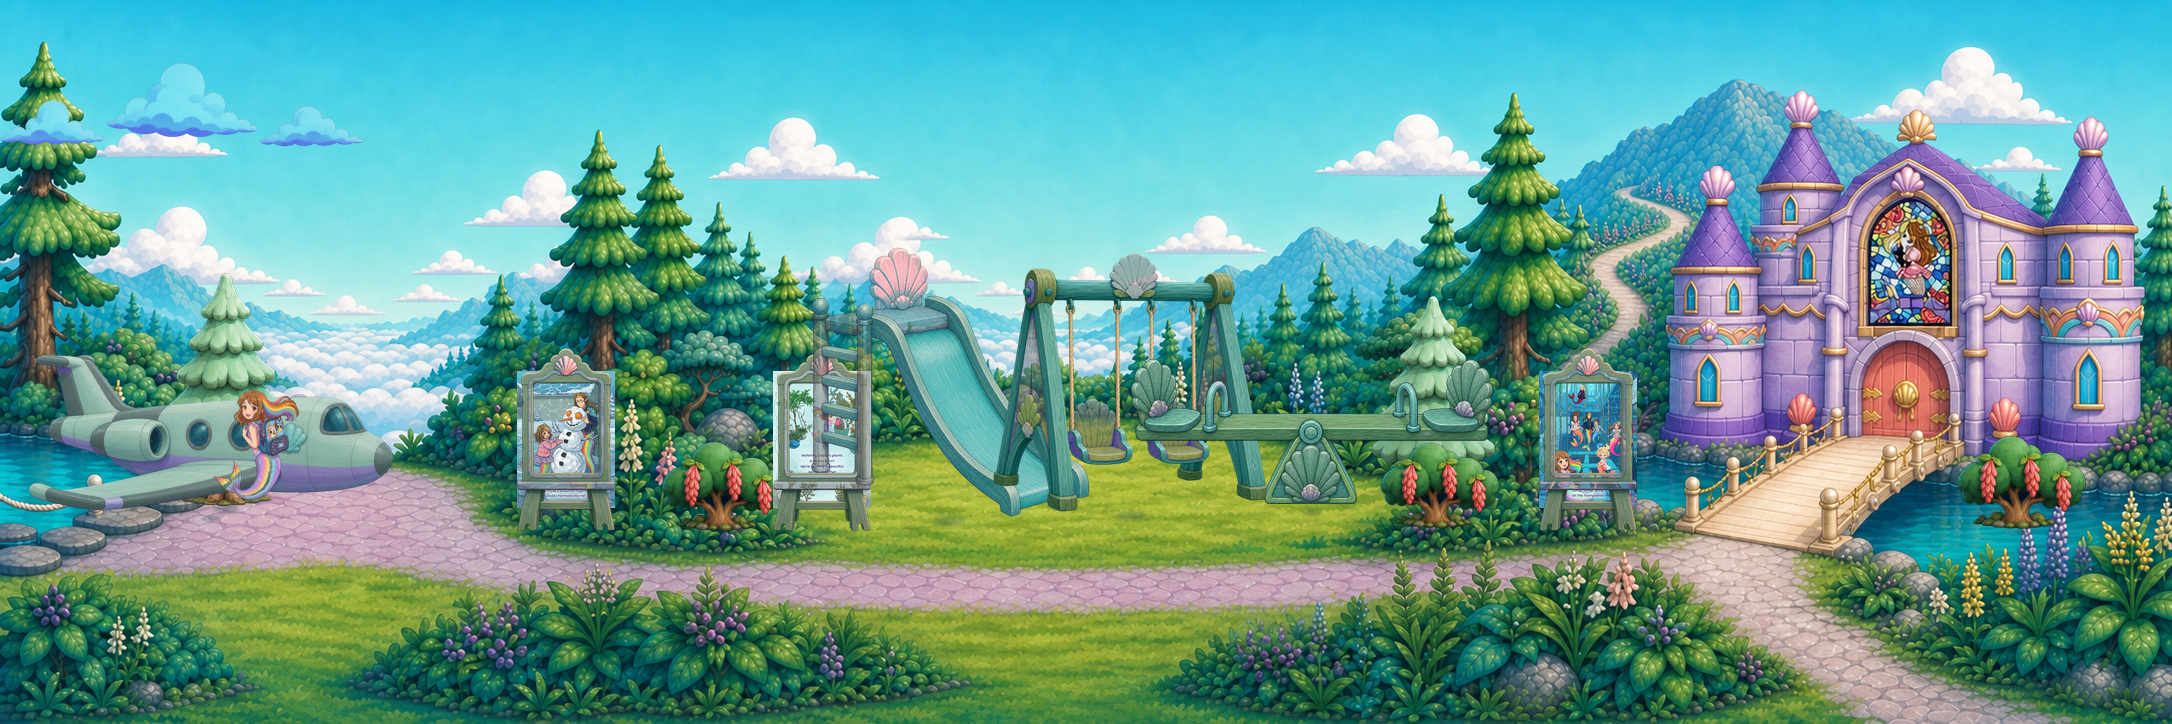
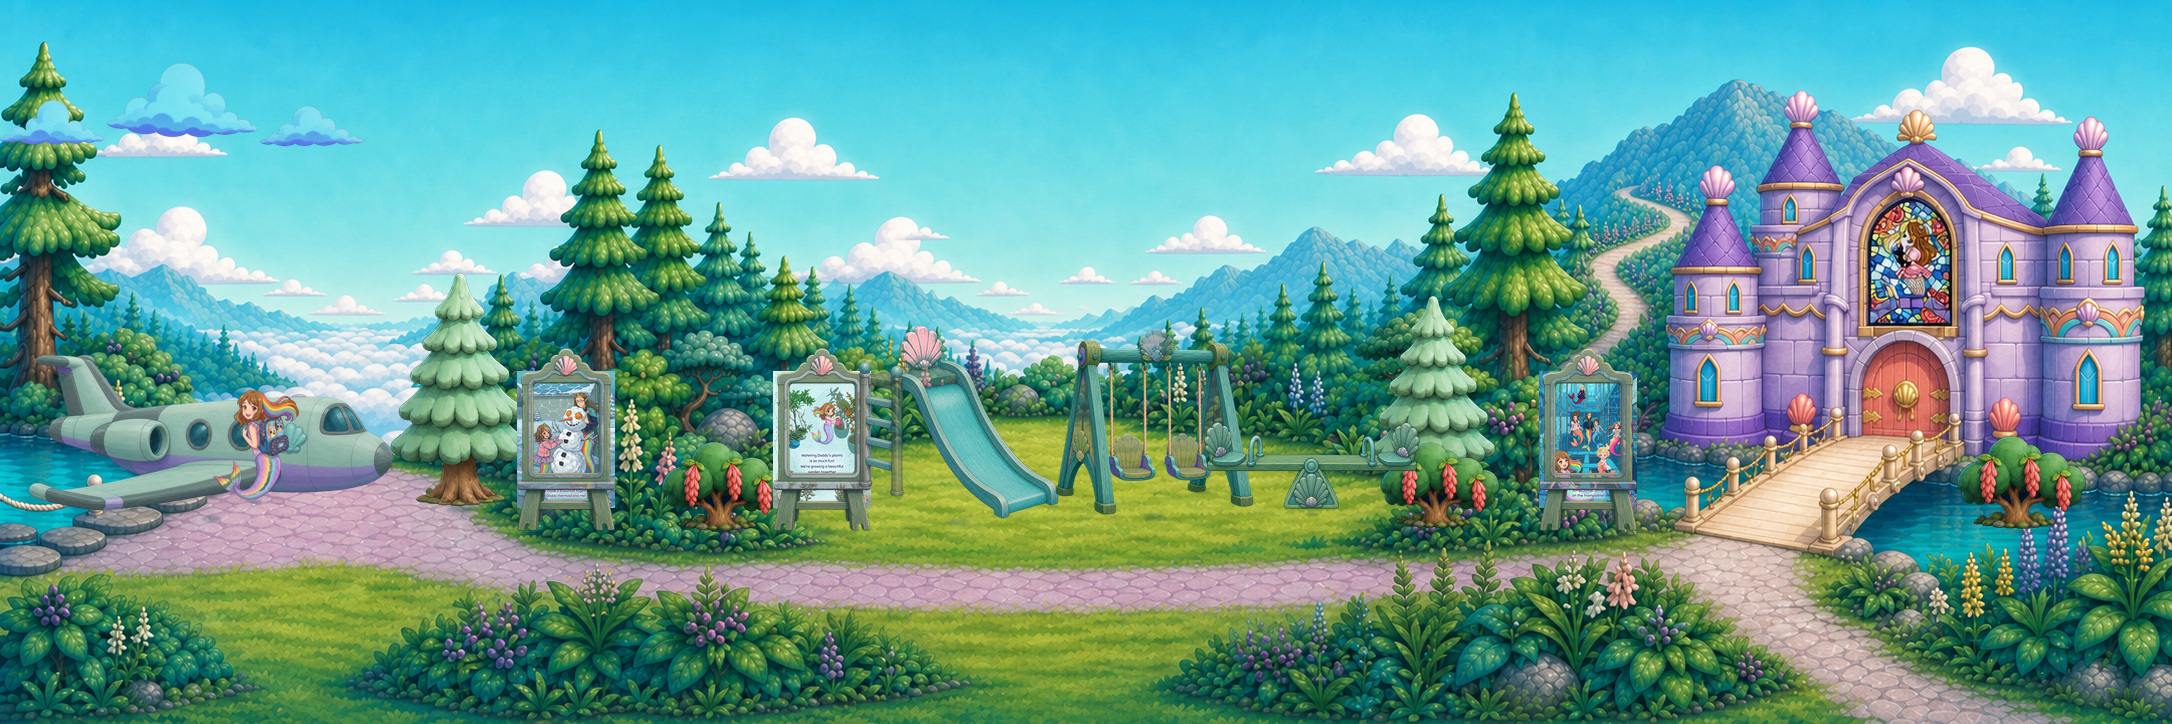
fix(sky-lagoon): fit playground and root shoreline fir

diff --git a/tools/audit_scene_congruency.py b/tools/audit_scene_congruency.py
@@ -59,11 +59,11 @@ ELEMENTS = (
 	Element("cloud_family_drift", "assets/sprites/sky_lagoon/sky_lagoon_cloud_family_v5_audited.png", 7.25, -17.95, "sky", "painted_underside"),
 	Element("activity_frame_v3", "assets/sprites/sky_lagoon/sky_lagoon_activity_frame_v3.png", 12.95, -17.75),
 	Element("plane", "assets/sprites/sky_lagoon/sky_lagoon_plane_v4_audited_360.png", 12.0, -17.85),
-	Element("swing", "assets/sprites/sky_lagoon/sky_lagoon_swing_v3.png", 18.4, -17.80),
-	Element("slide", "assets/sprites/sky_lagoon/sky_lagoon_slide_v3.png", 19.1, -17.80),
+	Element("swing", "assets/sprites/sky_lagoon/sky_lagoon_swing_v3_compact.png", 13.3, -17.80),
+	Element("slide", "assets/sprites/sky_lagoon/sky_lagoon_slide_v3_compact.png", 13.8, -17.80),
 	Element("castle_gate", "assets/sprites/sky_lagoon/sky_lagoon_castle_gate_v3.png", 13.9, -17.85, "castle", "card", "castle"),
 	Element("roshan", "assets/sprites/sky_lagoon/sky_lagoon_roshan_runtime_audited.png", 7.8, 0.2, "ground", "card", "accent"),
-	Element("seesaw", "assets/sprites/sky_lagoon/sky_lagoon_seesaw_v4.png", 11.35, -17.80),
+	Element("seesaw", "assets/sprites/sky_lagoon/sky_lagoon_seesaw_v4_compact.png", 6.8, -17.80),
 	Element("pnw_currant_sway", "assets/sprites/sky_lagoon/sky_lagoon_pnw_currant_sway_audited.png", 6.55, -17.70),
 	Element("pnw_fir_sway", "assets/sprites/sky_lagoon/sky_lagoon_pnw_fir_sway_v2.png", 16.65, -17.90),
 )

diff --git a/tools/build_sky_lagoon_preview.py b/tools/build_sky_lagoon_preview.py
@@ -52,7 +52,7 @@ def main() -> None:
 	canvas = Image.open(MASTER).convert("RGBA")
 	# Sky card first, then distant PNW standees.
 	place(canvas, "assets/sprites/sky_lagoon/sky_lagoon_cloud_family_v5_audited.png", -60.0, 26.6, 7.25)
-	for x, y, height in ((-57.0, 7.7, 16.65), (23.0, 7.05, 14.7)):
+	for x, y, height in ((-41.5, 7.7, 16.65), (23.0, 7.05, 14.7)):
 		shadow(canvas, x, y, height)
 		place(canvas, "assets/sprites/sky_lagoon/sky_lagoon_pnw_fir_sway_v2.png", x, y, height)
 	for x, y, height in ((-24.0, 1.3, 6.55), (23.5, 1.35, 6.3), (62.0, 1.55, 6.8)):
@@ -71,9 +71,9 @@ def main() -> None:
 
 	for path, x, y, height in (
 		("assets/sprites/sky_lagoon/sky_lagoon_plane_v4_audited_360.png", -58.0, 4.85, 12.0),
-		("assets/sprites/sky_lagoon/sky_lagoon_slide_v3.png", -9.0, 8.15, 19.1),
-		("assets/sprites/sky_lagoon/sky_lagoon_swing_v3.png", 3.0, 8.15, 18.4),
-		("assets/sprites/sky_lagoon/sky_lagoon_seesaw_v4.png", 15.0, 4.95, 11.35),
+		("assets/sprites/sky_lagoon/sky_lagoon_slide_v3_compact.png", -8.5, 5.5, 13.8),
+		("assets/sprites/sky_lagoon/sky_lagoon_swing_v3_compact.png", 4.5, 5.6, 13.3),
+		("assets/sprites/sky_lagoon/sky_lagoon_seesaw_v4_compact.png", 15.0, 2.675, 6.8),
 	):
 		shadow(canvas, x, y, height)
 		place(canvas, path, x, y, height)

diff --git a/SKY_LAGOON_CONGRUENCY_REBUILD_2026-07-27.md b/SKY_LAGOON_CONGRUENCY_REBUILD_2026-07-27.md
@@ -17,10 +17,15 @@ exact-coordinate three-screen preview is
 ## Composition and behavior
 
 - West screen: the approved pearl-green airplane, lagoon water, dock/runway,
-  PNW firs and currants, flowers, and the intentionally blocked water edge.
+  land-rooted PNW firs and currants, flowers, and the intentionally blocked
+  water edge.
 - Middle screen: child-scaled two-seat swing, rung-ladder slide, symmetric
   seesaw, dense PNW planting, and a clearly enclosed play lawn rather than an
   unexplained exit.
+- The 2026-07-28 fit correction reduced the slide to 13.8 world units, swing
+  to 13.3, and seesaw to 6.8, preserving each ground contact and rescaling
+  Roshan's equipment-relative animation paths. The west fir moved from the
+  lagoon edge to the planted shoreline at x = -41.5.
 - East screen: readable castle façade, Mermaid Roshan stained glass,
   drawbridge entrance, foreground flora, and a separate upper path framed by
   mountains.
@@ -76,7 +81,7 @@ Master SHA-256:
 The Level 2 probe traverses all four joins and reports four seam checks with
 maximum camera drift of 0.3%, confirming seam-free reconstruction and
 continuous navigation. The preview is also 2172×724 and has SHA-256
[2 lines of base64/hex data omitted]
 
 ## Congruency audit
 

diff --git a/ASSET_LICENSES.md b/ASSET_LICENSES.md
@@ -454,3 +454,7 @@ ambientCG (all CC0).
   project-original 256×128 translucent contact-shadow sprite generated locally
   by `tools/prepare_sky_lagoon_congruency_assets.py`; used only on unshaded
   Sprite3D cards.
+- `assets/sprites/sky_lagoon/{sky_lagoon_slide_v3_compact.png,sky_lagoon_swing_v3_compact.png,sky_lagoon_seesaw_v4_compact.png}`
+  — project-original, lossless-alpha compact derivatives of the approved
+  playground sprites; downsampled once to match their smaller Sprite3D display
+  size while preserving the accepted shapes, palette, and transparent bounds.
